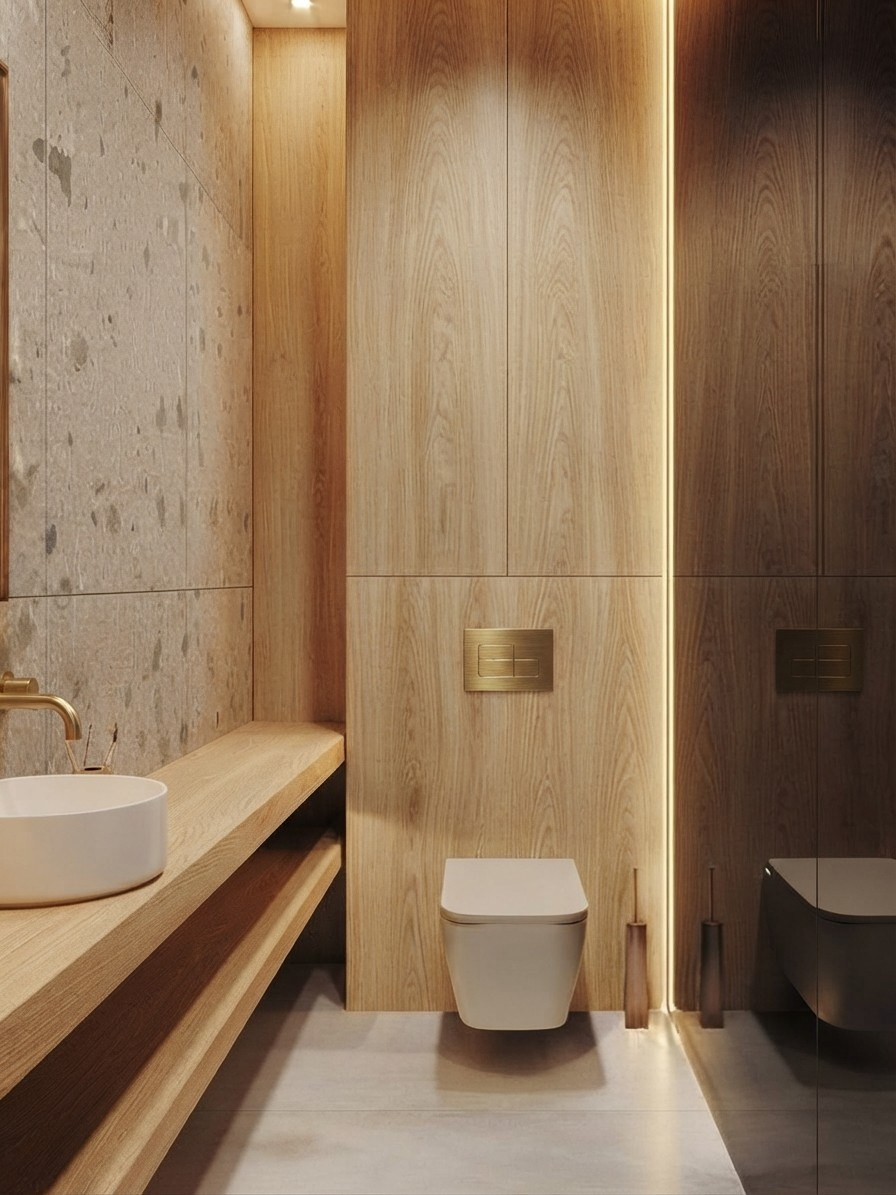
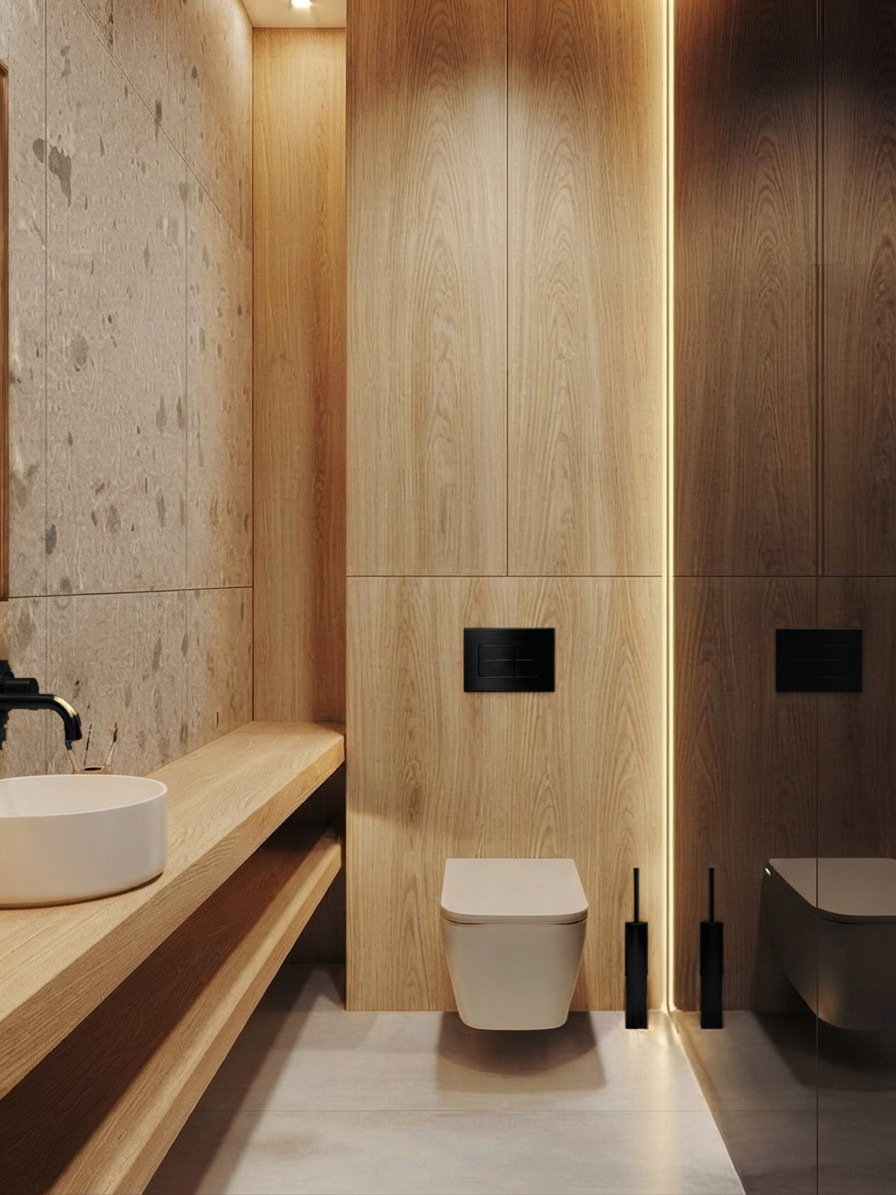
Small bathroom: black fittings
Claude-Session: https://claude.ai/code/session_01MbzakcTS9zrjW94ifsyEv2

diff --git a/interior/itog/index.html b/interior/itog/index.html
@@ -28,10 +28,10 @@ textarea{min-height:70px;resize:vertical;margin-top:10px}
 <h1>Квартира целиком</h1>
 <p class="lead">По вашим ответам собрали квартиру в одном стиле: белые стены, светлый дуб, шалфей и фисташка, охра и пыльная роза, без тёмных цветов, в санузлах — не больше трёх цветов. В каждой комнате выберите один вариант и напишите, что поправить — даже мелочи.</p>
 <p><input id="name" placeholder="Ваше имя" autocomplete="given-name"></p>
-<p class="status" id="status"></p><p class="status">Версия 22 · в санузлах терраццо — вариант A</p>
+<p class="status" id="status"></p><p class="status">Версия 23 · в санузлах терраццо — вариант A</p>
 <div id="rooms"></div></div>
 <div class="lb" id="lb" hidden><img id="lbImg" alt=""></div>
-<script id="data" type="application/json">[{"key": "gostinaya", "title": "Кухня-гостиная", "opts": [{"id": "v7-gostinaya-05", "src": "../img/v7-gostinaya-05.jpg", "w": 1195, "h": 896, "label": "A · Наша комната по фото: вид из прихожей на окно"}, {"id": "v7-gostinaya-02", "src": "../img/v7-gostinaya-02.jpg", "w": 1195, "h": 896, "label": "A · тот же вариант: вид на диван и окно"}, {"id": "v7-gostinaya-03", "src": "../img/v7-gostinaya-03.jpg", "w": 896, "h": 1195, "label": "A · тот же вариант: вид от окна на кухню и нишу"}, {"id": "v7-gostinaya-04", "src": "../img/v7-gostinaya-04.jpg", "w": 896, "h": 1195, "label": "A · тот же вариант: вид вдоль стены с ТВ"}, {"id": "v3-gostinaya-03", "src": "../img/v3-gostinaya-03.jpg", "label": "B · фисташковая кухня, розовый диван, стулья охра", "w": 1115, "h": 960}, {"id": "v3-gostinaya-04", "src": "../img/v3-gostinaya-04.jpg", "label": "C · дубовая кухня, шалфейный диван, розовые стулья", "w": 1115, "h": 960}, {"id": "v3-gostinaya-02", "src": "../img/v3-gostinaya-02.jpg", "label": "D · фисташковая кухня, розовый диван, стулья охра + роза", "w": 1115, "h": 960}]}, {"key": "spalnya", "title": "Спальня", "opts": [{"id": "v2-spalnya-03", "src": "../img/v2-spalnya-03.jpg", "label": "A · фисташковая кровать, стулья охра", "w": 1115, "h": 960}, {"id": "v2-spalnya-02", "src": "../img/v2-spalnya-02.jpg", "label": "B · розовая кровать", "w": 1376, "h": 768}, {"id": "v2-spalnya-01", "src": "../img/v2-spalnya-01.jpg", "label": "C · кровать из дуба, шкаф шалфей", "w": 1376, "h": 768}]}, {"key": "komnata", "title": "Комната", "opts": [{"id": "v8-komnata-01", "src": "../img/v8-komnata-01.jpg", "w": 1153, "h": 912, "label": "Наша детская по фото: вид от двери на окно"}]}, {"key": "prihozhaya", "title": "Прихожая", "opts": [{"id": "v8-prihozhaya-01", "src": "../img/v8-prihozhaya-01.jpg", "w": 848, "h": 1229, "label": "A · Наша прихожая по фото: шкаф шалфей, зеркало до потолка"}, {"id": "v6-prihozhaya-01", "src": "../img/v6-prihozhaya-01.jpg", "w": 797, "h": 1152, "label": "B · шалфей, консоль из дуба, зеркало, светлый пол"}, {"id": "v6-prihozhaya-02", "src": "../img/v6-prihozhaya-02.jpg", "w": 863, "h": 1248, "label": "C · шалфей, полуовальное зеркало с подсветкой"}, {"id": "v6-prihozhaya-03", "src": "../img/v6-prihozhaya-03.jpg", "w": 863, "h": 1248, "label": "D · шкаф шалфей, белые стены, полоса шалфея за зеркалом"}, {"id": "v6-prihozhaya-04", "src": "../img/v6-prihozhaya-04.jpg", "w": 863, "h": 1248, "label": "E · шкаф шалфей, белые стены, полуовальное зеркало"}, {"id": "v2-prihozhaya-01", "src": "../img/v2-prihozhaya-01.jpg", "label": "F · фисташковый шкаф, мрамор", "w": 928, "h": 1152}, {"id": "v2-prihozhaya-04", "src": "../img/v2-prihozhaya-04.jpg", "label": "G · дубовый шкаф, ёлочка", "w": 928, "h": 1152}]}, {"key": "sanuzel", "title": "Большой санузел", "opts": [{"id": "v9-sanuzel-01", "src": "../img/v9-sanuzel-01.jpg", "label": "A · по реальному фото: терраццо и дуб", "w": 864, "h": 1207}, {"id": "v4-sanuzel-03", "src": "../img/v4-sanuzel-03.jpg", "label": "B · терраццо и дуб", "w": 1024, "h": 1024}, {"id": "v2-sanuzel-01", "src": "../img/v2-sanuzel-01.jpg", "label": "C · белый, дуб и розовая плитка", "w": 1024, "h": 1024}, {"id": "v2-sanuzel-02", "src": "../img/v2-sanuzel-02.jpg", "label": "D · белый, дуб и фисташковая плитка", "w": 1024, "h": 1024}]}, {"key": "malyy", "title": "Малый санузел", "opts": [{"id": "v9-malyy-01", "src": "../img/v9-malyy-01.jpg", "label": "A · по реальному фото: дуб, терраццо, тёмное зеркало", "w": 896, "h": 1195}, {"id": "v4-malyy-01", "src": "../img/v4-malyy-01.jpg", "label": "B · терраццо и дуб", "w": 928, "h": 1152}, {"id": "v2-malyy-03", "src": "../img/v2-malyy-03.jpg", "label": "C · белый, дуб и зелёная плитка", "w": 922, "h": 1152}]}]</script>
+<script id="data" type="application/json">[{"key": "gostinaya", "title": "Кухня-гостиная", "opts": [{"id": "v7-gostinaya-05", "src": "../img/v7-gostinaya-05.jpg", "w": 1195, "h": 896, "label": "A · Наша комната по фото: вид из прихожей на окно"}, {"id": "v7-gostinaya-02", "src": "../img/v7-gostinaya-02.jpg", "w": 1195, "h": 896, "label": "A · тот же вариант: вид на диван и окно"}, {"id": "v7-gostinaya-03", "src": "../img/v7-gostinaya-03.jpg", "w": 896, "h": 1195, "label": "A · тот же вариант: вид от окна на кухню и нишу"}, {"id": "v7-gostinaya-04", "src": "../img/v7-gostinaya-04.jpg", "w": 896, "h": 1195, "label": "A · тот же вариант: вид вдоль стены с ТВ"}, {"id": "v3-gostinaya-03", "src": "../img/v3-gostinaya-03.jpg", "label": "B · фисташковая кухня, розовый диван, стулья охра", "w": 1115, "h": 960}, {"id": "v3-gostinaya-04", "src": "../img/v3-gostinaya-04.jpg", "label": "C · дубовая кухня, шалфейный диван, розовые стулья", "w": 1115, "h": 960}, {"id": "v3-gostinaya-02", "src": "../img/v3-gostinaya-02.jpg", "label": "D · фисташковая кухня, розовый диван, стулья охра + роза", "w": 1115, "h": 960}]}, {"key": "spalnya", "title": "Спальня", "opts": [{"id": "v2-spalnya-03", "src": "../img/v2-spalnya-03.jpg", "label": "A · фисташковая кровать, стулья охра", "w": 1115, "h": 960}, {"id": "v2-spalnya-02", "src": "../img/v2-spalnya-02.jpg", "label": "B · розовая кровать", "w": 1376, "h": 768}, {"id": "v2-spalnya-01", "src": "../img/v2-spalnya-01.jpg", "label": "C · кровать из дуба, шкаф шалфей", "w": 1376, "h": 768}]}, {"key": "komnata", "title": "Комната", "opts": [{"id": "v8-komnata-01", "src": "../img/v8-komnata-01.jpg", "w": 1153, "h": 912, "label": "Наша детская по фото: вид от двери на окно"}]}, {"key": "prihozhaya", "title": "Прихожая", "opts": [{"id": "v8-prihozhaya-01", "src": "../img/v8-prihozhaya-01.jpg", "w": 848, "h": 1229, "label": "A · Наша прихожая по фото: шкаф шалфей, зеркало до потолка"}, {"id": "v6-prihozhaya-01", "src": "../img/v6-prihozhaya-01.jpg", "w": 797, "h": 1152, "label": "B · шалфей, консоль из дуба, зеркало, светлый пол"}, {"id": "v6-prihozhaya-02", "src": "../img/v6-prihozhaya-02.jpg", "w": 863, "h": 1248, "label": "C · шалфей, полуовальное зеркало с подсветкой"}, {"id": "v6-prihozhaya-03", "src": "../img/v6-prihozhaya-03.jpg", "w": 863, "h": 1248, "label": "D · шкаф шалфей, белые стены, полоса шалфея за зеркалом"}, {"id": "v6-prihozhaya-04", "src": "../img/v6-prihozhaya-04.jpg", "w": 863, "h": 1248, "label": "E · шкаф шалфей, белые стены, полуовальное зеркало"}, {"id": "v2-prihozhaya-01", "src": "../img/v2-prihozhaya-01.jpg", "label": "F · фисташковый шкаф, мрамор", "w": 928, "h": 1152}, {"id": "v2-prihozhaya-04", "src": "../img/v2-prihozhaya-04.jpg", "label": "G · дубовый шкаф, ёлочка", "w": 928, "h": 1152}]}, {"key": "sanuzel", "title": "Большой санузел", "opts": [{"id": "v9-sanuzel-01", "src": "../img/v9-sanuzel-01.jpg", "label": "A · по реальному фото: терраццо и дуб", "w": 864, "h": 1207}, {"id": "v4-sanuzel-03", "src": "../img/v4-sanuzel-03.jpg", "label": "B · терраццо и дуб", "w": 1024, "h": 1024}, {"id": "v2-sanuzel-01", "src": "../img/v2-sanuzel-01.jpg", "label": "C · белый, дуб и розовая плитка", "w": 1024, "h": 1024}, {"id": "v2-sanuzel-02", "src": "../img/v2-sanuzel-02.jpg", "label": "D · белый, дуб и фисташковая плитка", "w": 1024, "h": 1024}]}, {"key": "malyy", "title": "Малый санузел", "opts": [{"id": "v9-malyy-01", "src": "../img/v9-malyy-01.jpg", "label": "A · по реальному фото: дуб, терраццо, чёрная фурнитура", "w": 896, "h": 1195}, {"id": "v4-malyy-01", "src": "../img/v4-malyy-01.jpg", "label": "B · терраццо и дуб", "w": 928, "h": 1152}, {"id": "v2-malyy-03", "src": "../img/v2-malyy-03.jpg", "label": "C · белый, дуб и зелёная плитка", "w": 922, "h": 1152}]}]</script>
 <script>
 const FORM_ACTION='https://docs.google.com/forms/d/e/1FAIpQLSf0fpu6bYX8AfbI0DWtXiViWGJpiZCAC7_vtrAKPLAi6q84wA/formResponse', FORM_ENTRY='entry.2073883489';
 const ROOMS=JSON.parse(document.getElementById('data').textContent), $=id=>document.getElementById(id);
